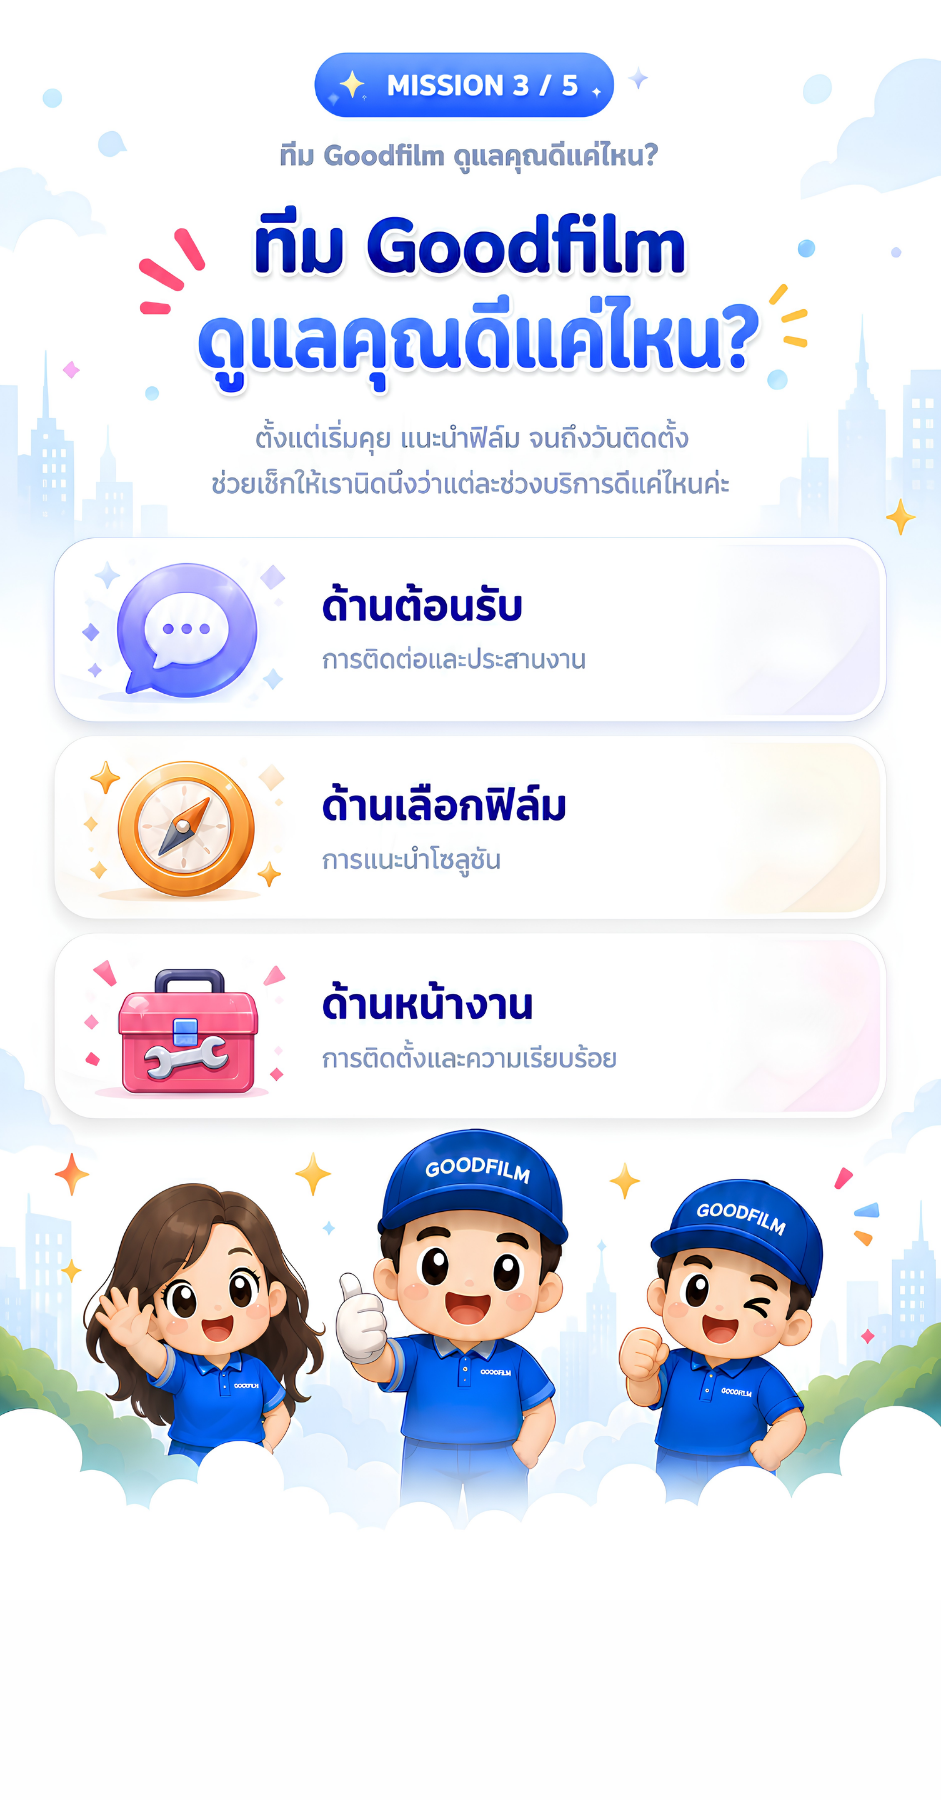
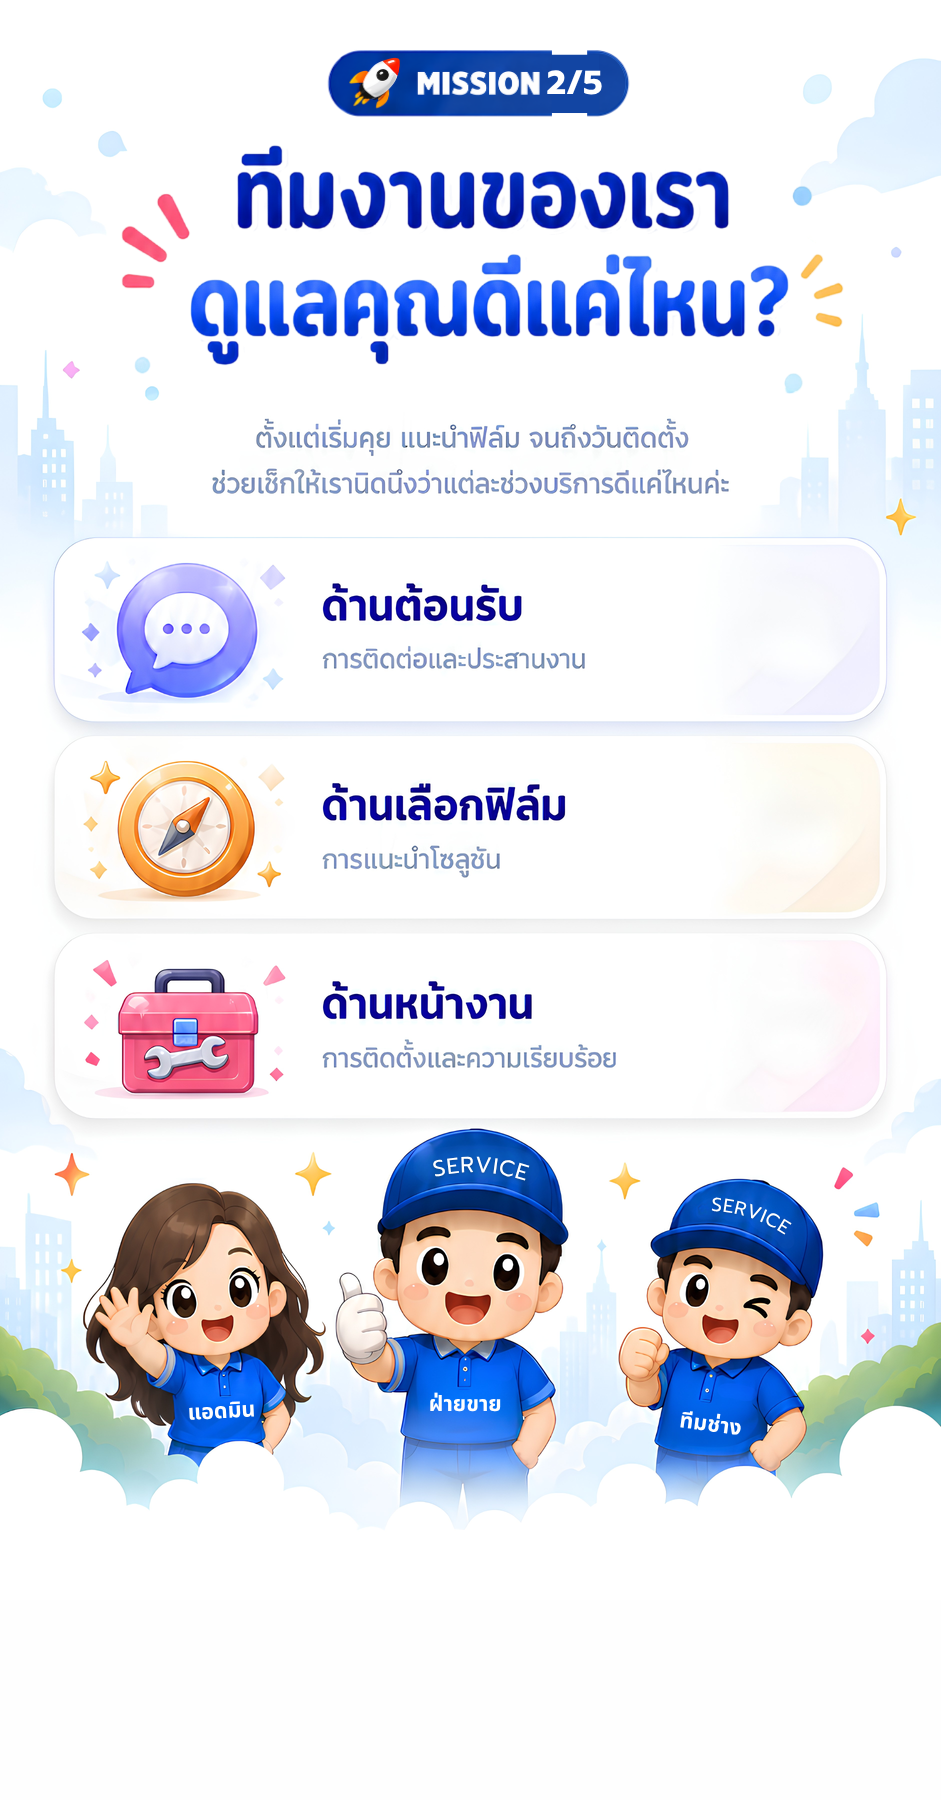
Execute execCommand synchronously as primary copy method

diff --git a/admin/app.js b/admin/app.js
@@ -1477,34 +1477,35 @@ function fetchAndGenerateLinks() {
         });
 }
 
-function fallbackCopyTextToClipboard(text) {
-    var textArea = document.createElement("textarea");
-    textArea.value = text;
-    textArea.style.top = "0";
-    textArea.style.left = "0";
-    textArea.style.position = "fixed";
-    document.body.appendChild(textArea);
-    textArea.focus();
-    textArea.select();
+function copyTextRobust(text) {
     try {
+        var textArea = document.createElement("textarea");
+        textArea.value = text;
+        textArea.style.top = "0";
+        textArea.style.left = "0";
+        textArea.style.position = "fixed";
+        document.body.appendChild(textArea);
+        textArea.focus();
+        textArea.select();
         var successful = document.execCommand('copy');
         document.body.removeChild(textArea);
-        return successful ? Promise.resolve() : Promise.reject('fallback failed');
+        
+        if (successful) {
+            return Promise.resolve();
+        }
     } catch (err) {
-        document.body.removeChild(textArea);
-        return Promise.reject(err);
+        try {
+            if (document.body.contains(textArea)) {
+                document.body.removeChild(textArea);
+            }
+        } catch (e) {}
     }
-}
 
-function copyTextRobust(text) {
     if (navigator.clipboard && navigator.clipboard.writeText) {
-        return navigator.clipboard.writeText(text).catch(err => {
-            console.warn('Clipboard API failed, using fallback:', err);
-            return fallbackCopyTextToClipboard(text);
-        });
-    } else {
-        return fallbackCopyTextToClipboard(text);
+        return navigator.clipboard.writeText(text);
     }
+    
+    return Promise.reject(new Error('All copy methods failed'));
 }
 
 function copyToClipboard(text, btn, id = null) {